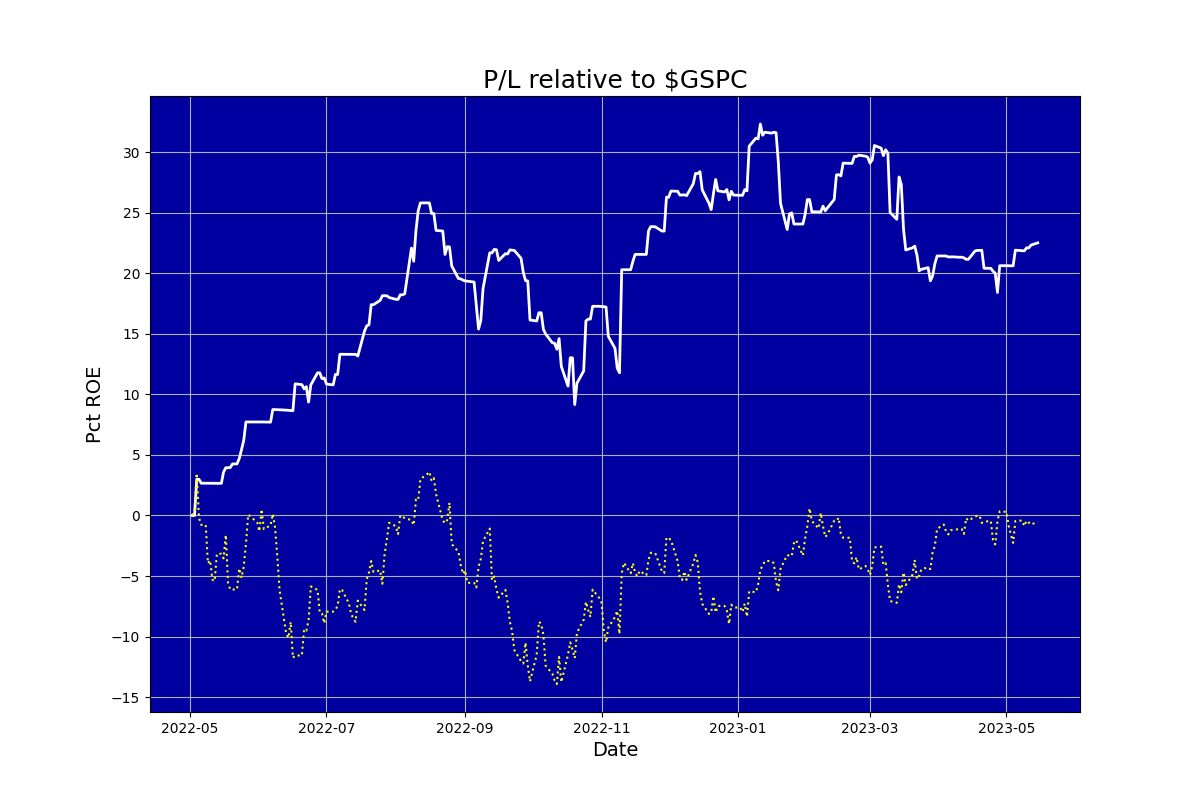
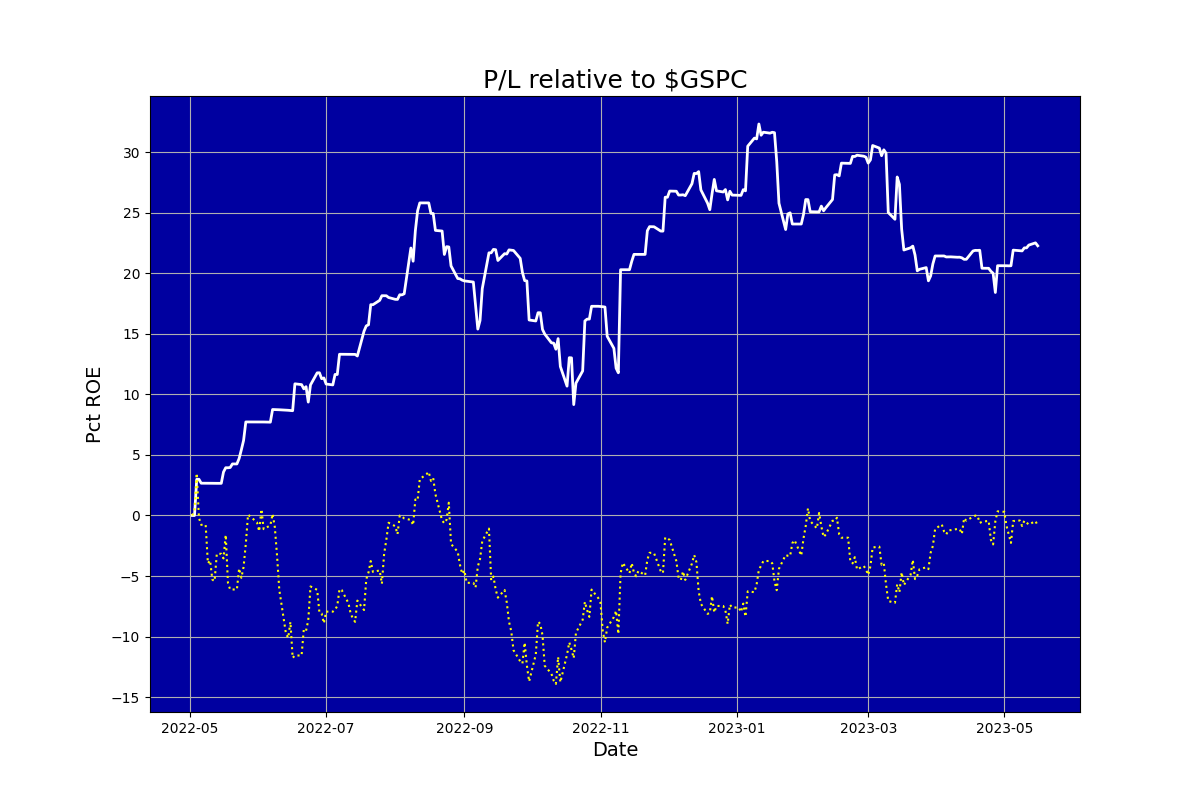
Updated

diff --git a/ig_report.html b/ig_report.html
@@ -1,1 +1,1 @@
-<html><body><center><h1>Auriel (never knowingly overbought)</h1></center><table cols=2><tr><td><img src=ig_pl.png></td><td><table cols=2><tr><td colspan=2><b><br>Snapshot</b></td></tr><tr><td>Last updated:&nbsp;&nbsp;&nbsp;</td><td>2023-05-15 15:54</td></tr><tr><td>Margin:&nbsp;&nbsp;&nbsp;</td><td>0.24</td></tr><tr><td>Cushion:&nbsp;&nbsp;&nbsp;</td><td>-12921.75</td></tr><tr><td>Last closed trade:&nbsp;&nbsp;&nbsp;</td><td>2023-05-15</td></tr><tr><td colspan=2><b><br>Positions</b></td></tr><tr><td>Mean days to new high:&nbsp;&nbsp;&nbsp;</td><td>12.59</td></tr><tr><td colspan=2><b><br>Trades</b></td></tr><tr><td>Traded days:&nbsp;&nbsp;&nbsp;</td><td>273</td></tr><tr><td>Profitable days pct:&nbsp;&nbsp;&nbsp;</td><td>38.46</td></tr><tr><td>Days beat S&P pct:&nbsp;&nbsp;&nbsp;</td><td>55.94</td></tr><tr><td>Profitable months pct:&nbsp;&nbsp;&nbsp;</td><td>69.23</td></tr><tr><td colspan=2><b><br>Performance</b></td></tr><tr><td>Pct median monthly ROE:&nbsp;&nbsp;&nbsp;</td><td>1.43</td></tr><tr><td>Pct annualised ROE:&nbsp;&nbsp;&nbsp;</td><td>20.62</td></tr><tr><td colspan=2><b><br>Risk</b></td></tr><tr><td>Volatility pct:&nbsp;&nbsp;&nbsp;</td><td>19.04</td></tr><tr><td>Benchmark volatility pct:&nbsp;&nbsp;&nbsp;</td><td>22.09</td></tr><tr><td>Sharpe ratio (RFR 5.0%):&nbsp;&nbsp;&nbsp;</td><td>0.91</td></tr><tr><td>Sortino ratio (RFR 5.0%):&nbsp;&nbsp;&nbsp;</td><td>1.26</td></tr><tr><td>Calmar ratio:&nbsp;&nbsp;&nbsp;</td><td>1.24</td></tr><tr><td>Worst drawdown pct:&nbsp;&nbsp;&nbsp;</td><td>-0.17</td></tr><tr><td>Recovery days from worst drawdown:&nbsp;&nbsp;&nbsp;</td><td>29.00</td></tr><tr><td>Beat benchmark +ve periods pct:&nbsp;&nbsp;&nbsp;</td><td>59.78</td></tr><tr><td>Beat benchmark -ve periods pct:&nbsp;&nbsp;&nbsp;</td><td>88.70</td></tr><tr><td>Correlation with benchmark:&nbsp;&nbsp;&nbsp;</td><td>0.36</td></tr></table></td></tr></table></body></html>
+<html><body><center><h1>Auriel (never knowingly overbought)</h1></center><table cols=2><tr><td><img src=ig_pl.png></td><td><table cols=2><tr><td colspan=2><b><br>Snapshot</b></td></tr><tr><td>Last updated:&nbsp;&nbsp;&nbsp;</td><td>2023-05-16 15:54</td></tr><tr><td>Margin:&nbsp;&nbsp;&nbsp;</td><td>0.23</td></tr><tr><td>Cushion:&nbsp;&nbsp;&nbsp;</td><td>-22730.91</td></tr><tr><td>Last closed trade:&nbsp;&nbsp;&nbsp;</td><td>2023-05-16</td></tr><tr><td colspan=2><b><br>Positions</b></td></tr><tr><td>Mean days to new high:&nbsp;&nbsp;&nbsp;</td><td>12.59</td></tr><tr><td colspan=2><b><br>Trades</b></td></tr><tr><td>Traded days:&nbsp;&nbsp;&nbsp;</td><td>274</td></tr><tr><td>Profitable days pct:&nbsp;&nbsp;&nbsp;</td><td>38.32</td></tr><tr><td>Days beat S&P pct:&nbsp;&nbsp;&nbsp;</td><td>55.34</td></tr><tr><td>Profitable months pct:&nbsp;&nbsp;&nbsp;</td><td>69.23</td></tr><tr><td colspan=2><b><br>Performance</b></td></tr><tr><td>Pct median monthly ROE:&nbsp;&nbsp;&nbsp;</td><td>1.43</td></tr><tr><td>Pct annualised ROE:&nbsp;&nbsp;&nbsp;</td><td>20.32</td></tr><tr><td colspan=2><b><br>Risk</b></td></tr><tr><td>Volatility pct:&nbsp;&nbsp;&nbsp;</td><td>19.01</td></tr><tr><td>Benchmark volatility pct:&nbsp;&nbsp;&nbsp;</td><td>22.05</td></tr><tr><td>Sharpe ratio (RFR 5.0%):&nbsp;&nbsp;&nbsp;</td><td>0.90</td></tr><tr><td>Sortino ratio (RFR 5.0%):&nbsp;&nbsp;&nbsp;</td><td>1.24</td></tr><tr><td>Calmar ratio:&nbsp;&nbsp;&nbsp;</td><td>1.22</td></tr><tr><td>Worst drawdown pct:&nbsp;&nbsp;&nbsp;</td><td>-0.17</td></tr><tr><td>Recovery days from worst drawdown:&nbsp;&nbsp;&nbsp;</td><td>29.00</td></tr><tr><td>Beat benchmark +ve periods pct:&nbsp;&nbsp;&nbsp;</td><td>59.56</td></tr><tr><td>Beat benchmark -ve periods pct:&nbsp;&nbsp;&nbsp;</td><td>88.69</td></tr><tr><td>Correlation with benchmark:&nbsp;&nbsp;&nbsp;</td><td>0.36</td></tr></table></td></tr></table></body></html>
